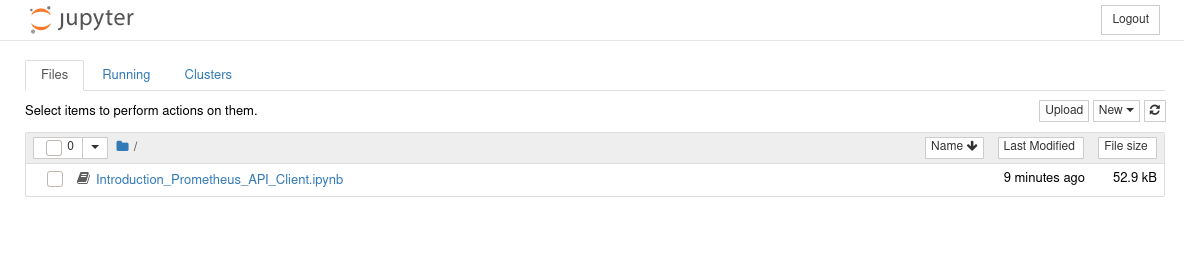
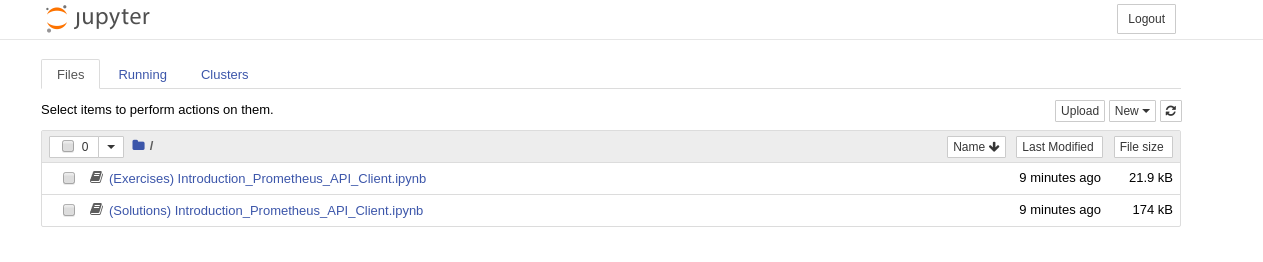
Update api-client notebook description

diff --git a/ai-machine-learning/prometheus-api-client/02-loading-the-notebook-templates.md b/ai-machine-learning/prometheus-api-client/02-loading-the-notebook-templates.md
@@ -16,5 +16,7 @@ You will need a password to access the environment.
 The password is `secret`{{copy}}
 ![Jupyter Environment Secret](./prometheus-api-client/assets/02-jupyter-secret.png)
 
-The notebook we will be using is called: `Introduction_Prometheus_API_Client.ipynb`
+There are 2 notebooks available in the Jupyter environement:
+1. `(Exercises) Introduction_Prometheus_API_Client.ipynb` - In this notebook you will explore and solve few exercises on using the Prometheus API client.
+2. `(Solutions) Introduction_Prometheus_API_Client.ipynb` - You will find the solutions to the exercises in this notebook.
 ![Jupyter Notebook List](./prometheus-api-client/assets/02-jupyter-notebook-list.png)
